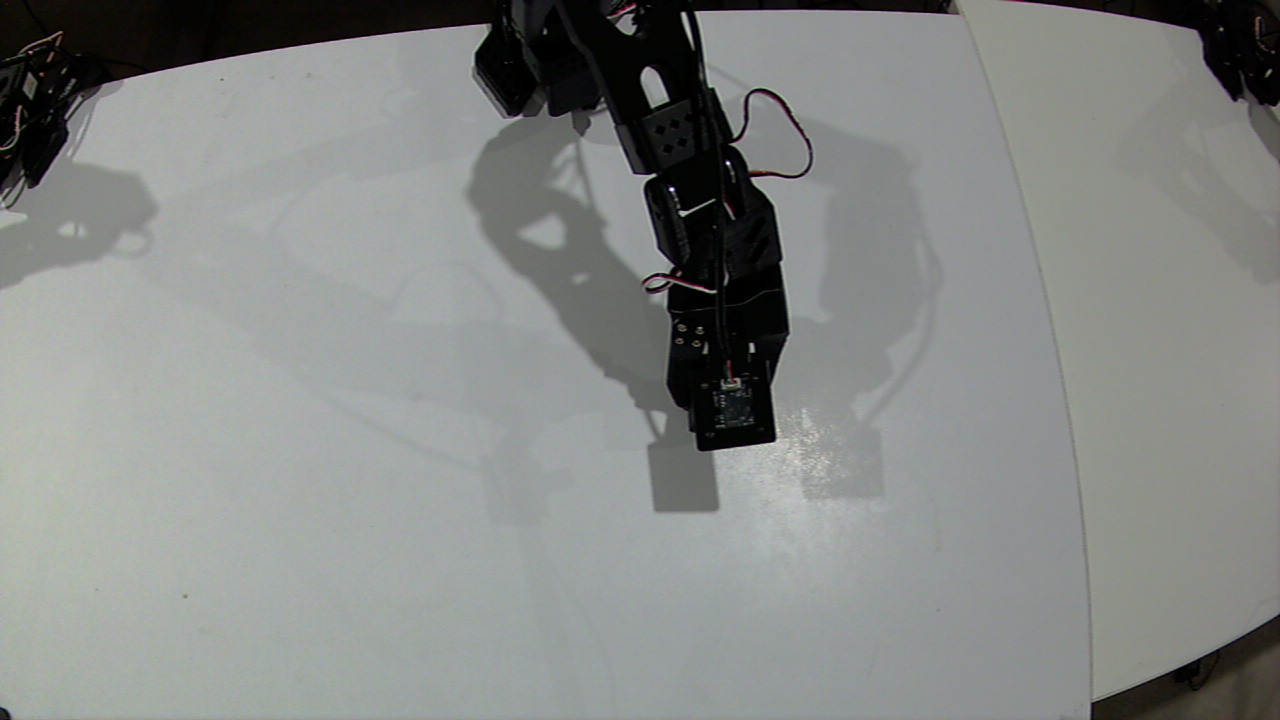
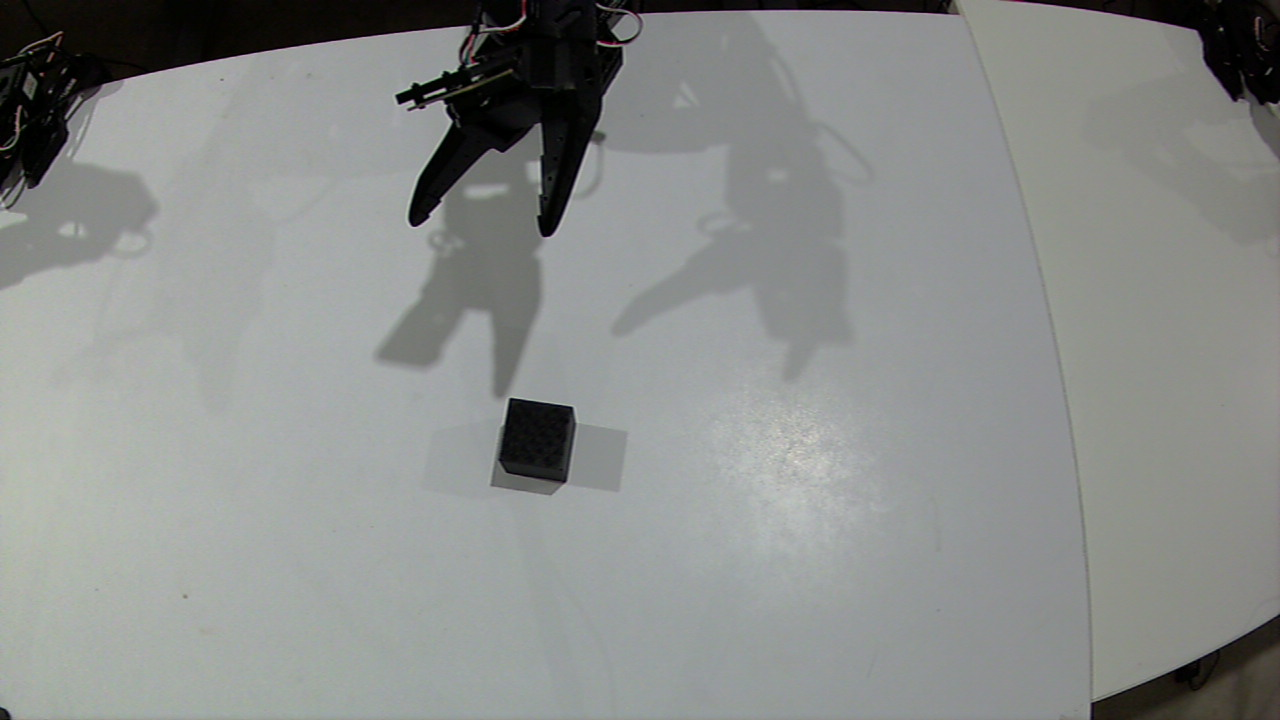
Update tools for arm-007__gpt-6-astra__grasp-cube
{"agent_id": "arm-007__gpt-6-astra__grasp-cube", "designation": "arm-007", "identity_version": 2, "model": "gpt-6-astra", "provider": "codex", "task_definition": {"description": "Start episode, pickup the black cube, bring black cube to home position, confirm successful grasp, stop episode, return object to new position, return home, repeat", "id": "grasp-cube", "success_criteria": ["successful episode coverage across the entire workspace", "achieve at least 50 successful episodes an hour"], "version": 2}, "task_id": "grasp-cube", "task_sha256": "e6c8adbb1562fdc6af3405e2e618046b110e27856c520c9f5cd329c258fb3818", "task_version": 2, "tools_sha256": "7a948cbe95f010bc08000a27b9c9339af198c43a33874c605b6f3e7adaf00eba"}

Changed region(s): [[0.2812, 0.0, 0.6875, 0.7333]]

diff --git a/agents/arm-007__gpt-6-astra__grasp-cube/cube_cycles.py b/agents/arm-007__gpt-6-astra__grasp-cube/cube_cycles.py
@@ -30,16 +30,14 @@ def pose(pan,elbow=20):
 def above(q):return {**q,'shoulder_lift':q['shoulder_lift']-30,'wrist_flex':q['wrist_flex']+30}
 def home(b):move(b,HOME,2.3)
 def grip(b):
- p=b.read('Present_Position','gripper')
- for goal in range(int(p)-1,5,-1):
-  c.move(b,{'gripper':goal},.05);time.sleep(.06)
-  actual=b.read('Present_Position','gripper')
-  if actual-goal>1.3:
-   if not 18<actual<35:raise RuntimeError('Unexpected contact width: '+str(actual))
-   b.write('Goal_Position','gripper',23.)
-   time.sleep(.15)
-   return actual
- raise RuntimeError('No cube contact')
+ limit,_=c.read_register(b,'Torque_Limit','gripper')
+ if limit!=220:raise RuntimeError('Expected bounded gripper output 220, got '+str(limit))
+ c.move(b,{'gripper':0},1.2)
+ time.sleep(.5)
+ actual=b.read('Present_Position','gripper')
+ if c.fault_bits(b,'gripper'):raise RuntimeError('Gripper fault')
+ if not 18<actual<35:raise RuntimeError('Unexpected contact width: '+str(actual))
+ return actual
 def held(b):
  img,meta=read_frame('wrist')
  dark=float(np.mean(cv2.cvtColor(img[500:650,730:1030],cv2.COLOR_BGR2GRAY)<65))
@@ -70,7 +68,7 @@ def run(n):
     if not ok:raise RuntimeError('Grasp not verified at home')
     target=pose(*grid[i%len(grid)])
     move(b,above(target));move(b,target,1.5)
-    move(b,{'gripper':45},.5)
+    move(b,{'gripper':50},1.3)
     current=target;STATE.write_text(json.dumps(current))
     move(b,above(current),1.5);home(b)
     snapshot();emit(event='placed',pose=current)
